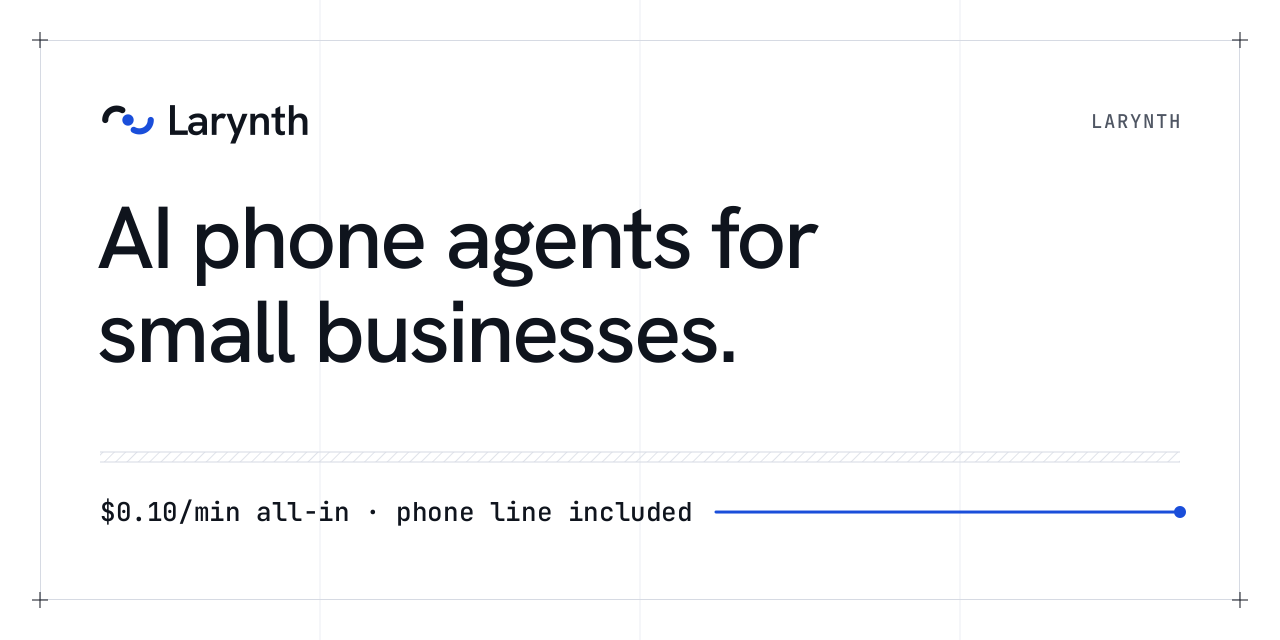
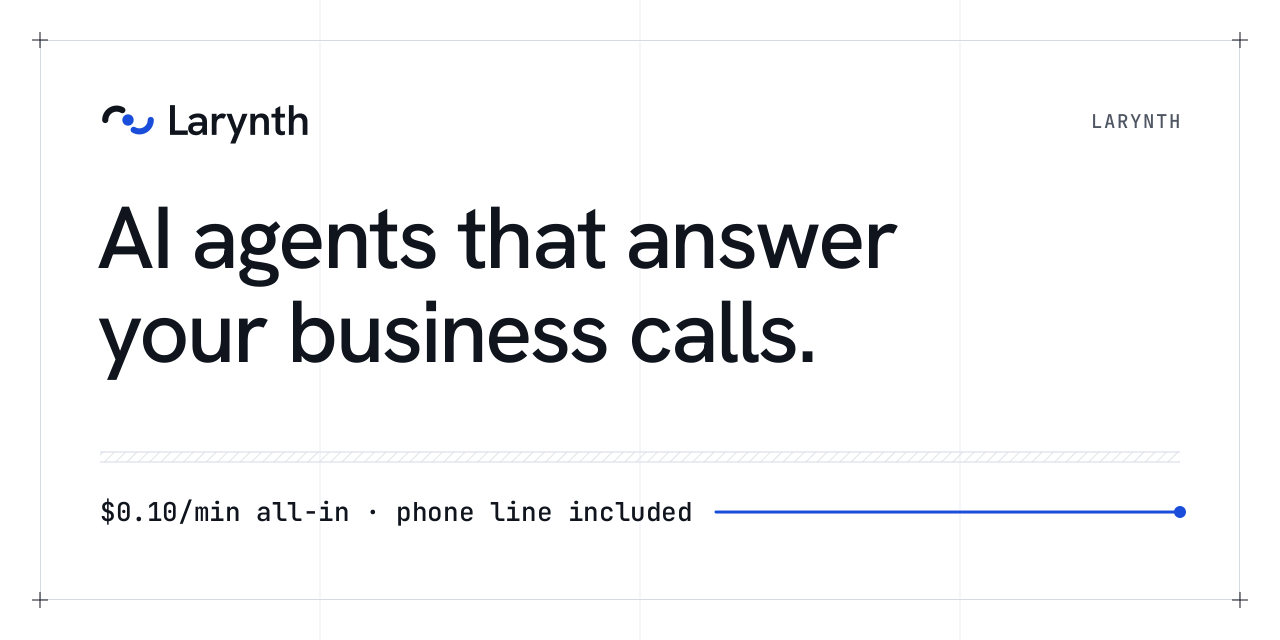
docs(profile): lead with AI voice agents that answer business calls (D-168)

Changed region(s): [[0.0625, 0.3125, 0.7188, 0.5938]]

diff --git a/profile/README.md b/profile/README.md
@@ -1,6 +1,6 @@
 <img src="larynth.png" alt="Larynth" width="100%">
 
-Larynth builds AI phone agents for small businesses. An agent answers calls, books appointments, takes messages and follows up, with compliance checks on every outbound call and simple per-minute pricing.
+Larynth builds AI voice agents that answer your business calls. An agent picks up every call, answers from your own documents and website, books appointments, and hands the caller to a person when they ask. Simple per-minute pricing, with an API, SDKs and an MCP server for developers.
 
 - Website: [larynth.com](https://larynth.com)
 - Docs and API reference: [docs.larynth.com](https://docs.larynth.com)
